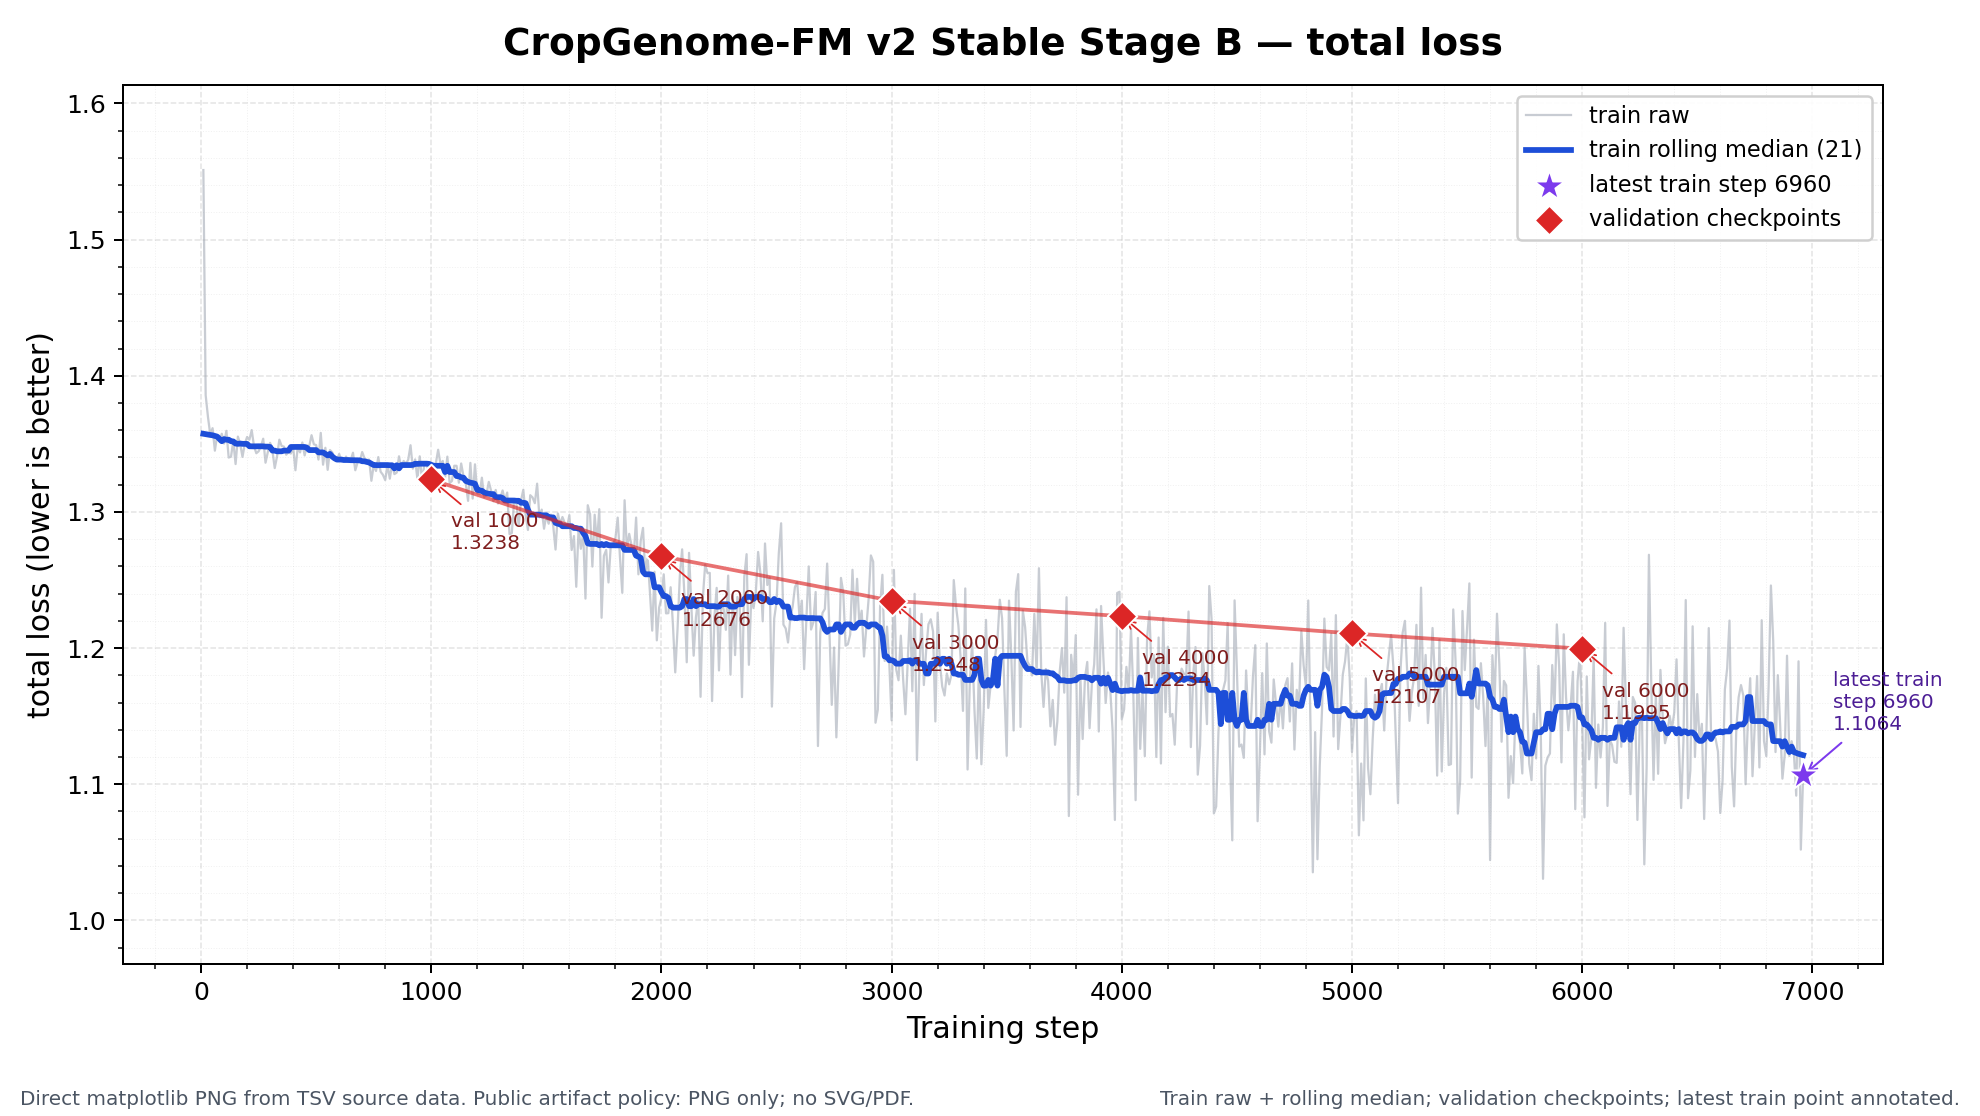
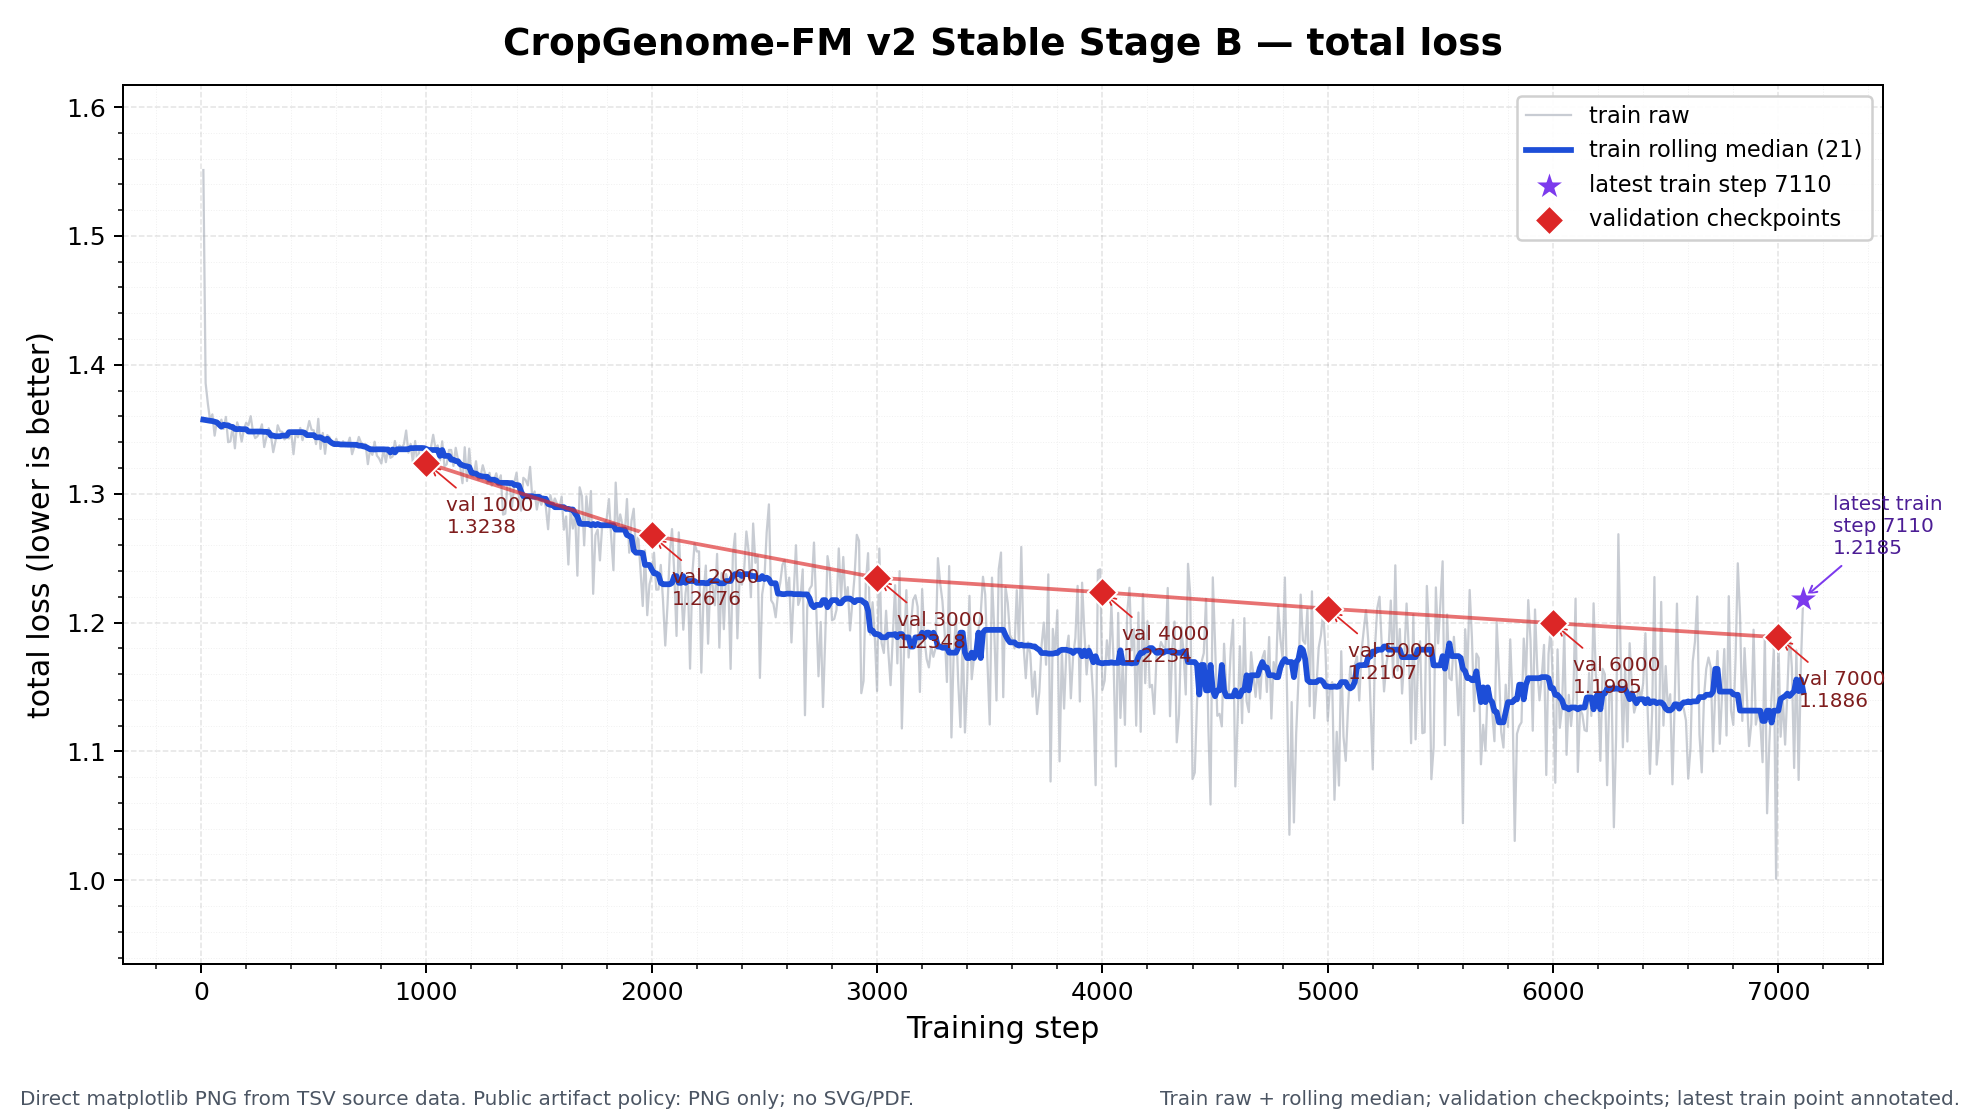
docs: add step7000 downstream results

diff --git a/TRAINING_PROGRESS.md b/TRAINING_PROGRESS.md
@@ -195,7 +195,7 @@ step2000:
 
 ### Step5000/6000 downstream update (诊断结果，不是正式主结果)
 
-训练源数据已同步到 train step 6960；最新 validation checkpoint（验证检查点）为 step 6000，validation selection loss = 1.1252513。step5000/6000 checkpoint 均已在 RTX 2080 Ti 上完成 full-region diagnostic probe（完整区域诊断探针）和 CropGenome-Bench v1 quick pilot（流程试跑）。
+训练源数据已同步到 train step 7110；最新 validation checkpoint（验证检查点）为 step 6000，validation selection loss = 1.1252513。step5000/6000 checkpoint 均已在 RTX 2080 Ti 上完成 full-region diagnostic probe（完整区域诊断探针）和 CropGenome-Bench v1 quick pilot（流程试跑）。
 
 #### Validation trend（验证趋势）
 
@@ -228,6 +228,36 @@ step2000:
 | splice_acceptor | 0.6043 | 0.6000 | 0.5735 | 0.5839 | +0.0054 | 超过 1-mer baseline; pilot proxy only |
 
 当前口径：validation loss 从 step1000 到 step6000 持续下降；full-region diagnostic probe 在 step5000 达到当前最高 embedding Macro-F1，step6000 embedding 回落但 region head 明显恢复；CropGenome-Bench v1 quick pilot 三个 proxy task 在 step6000 仍均超过 1-mer baseline（单碱基组成基线），但不同 task 存在小样本波动。以上均为 diagnostic/pilot 证据，不能写成正式 CropGenome-Bench v1 主结果。正式结果仍需 GFF-derived hard negatives、固定 split、多 seed、外部模型同口径比较。
+
+### Step7000 downstream update (诊断结果，不是正式主结果)
+
+训练源数据已同步到 train step 7110；最新 validation checkpoint 为 step 7000，validation selection loss = 1.1148912，继续低于 step6000 的 1.1252513。step7000 checkpoint 已在 RTX 2080 Ti 上完成 full-region diagnostic probe（完整区域诊断探针）和 CropGenome-Bench v1 quick pilot（流程试跑）。
+
+#### Full-region diagnostic probe（完整区域诊断探针）
+
+| checkpoint | embedding Macro-F1 | region head Macro-F1 | 说明 |
+|---|---:|---:|---|
+| step1000 | 0.1742 | 0.0777 | sampled region probe; diagnostic only |
+| step2000 | 0.2053 | 0.1646 | sampled region probe; diagnostic only |
+| step3000 | 0.2195 | 0.1853 | sampled region probe; diagnostic only |
+| step4000 | 0.2315 | 0.1594 | sampled region probe; diagnostic only |
+| step5000 | 0.2619 | 0.1588 | sampled region probe; diagnostic only |
+| step6000 | 0.2316 | 0.2191 | sampled region probe; diagnostic only |
+| step7000 | 0.2605 | 0.1588 | sampled region probe; diagnostic only |
+
+#### CropGenome-Bench v1 quick pilot（Stage_B proxy 标签；不是正式 benchmark）
+
+| task | step5000 F1 | step6000 F1 | step7000 F1 | step7000 vs 1-mer | 解释 |
+|---|---:|---:|---:|---:|---|
+| TES_polyA | 0.8550 | 0.8702 | 0.8462 | +0.2308 | 超过 1-mer baseline; pilot proxy only |
+| promoter_TSS | 0.7031 | 0.7143 | 0.7132 | +0.0841 | 超过 1-mer baseline; pilot proxy only |
+| splice_acceptor | 0.5735 | 0.5839 | 0.5630 | -0.0155 | 未超过 1-mer baseline; pilot proxy only |
+
+当前口径：step7000 validation 是当前最好验证点；full-region embedding Macro-F1 与 step5000 基本持平但略低，region head 低于 step6000；quick pilot 中 TES/polyA 继续增强，promoter/TSS 与 splice proxy 有小样本波动。以上仍是 diagnostic/pilot 证据，不能写成正式 CropGenome-Bench v1 主结果。
+
+#### 正式 CropGenome-Bench v1 评测节奏
+
+现在有必要正式开始“构建”CropGenome-Bench v1：冻结 GFF-derived hard negatives（由 GFF 精确构建的硬负样本）、固定 train/valid/test split（训练/验证/测试划分）、实现 embedding cache（向量缓存）、定义多 seed 与外部模型同口径协议。但不建议在每个 checkpoint 上都跑完整正式 test：正式 benchmark 应只在少数候选 checkpoint 上跑，例如 validation-best、step5000/step7000、以及最终停止点；checkpoint 选择只能看 validation/probe，不应反复用 test set 做选择。每个 checkpoint 可以继续跑轻量 diagnostic/pilot，用于训练监控。
 
 ## CropGenome-Bench v1 pilot smoke test (流程试跑，不是正式主结果)
 
